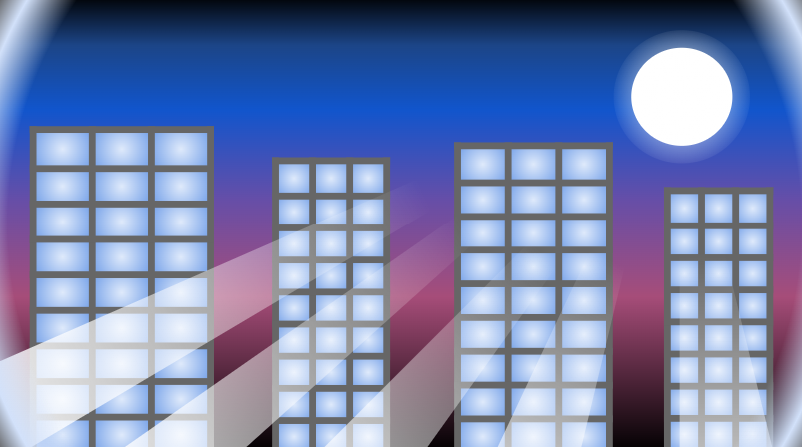
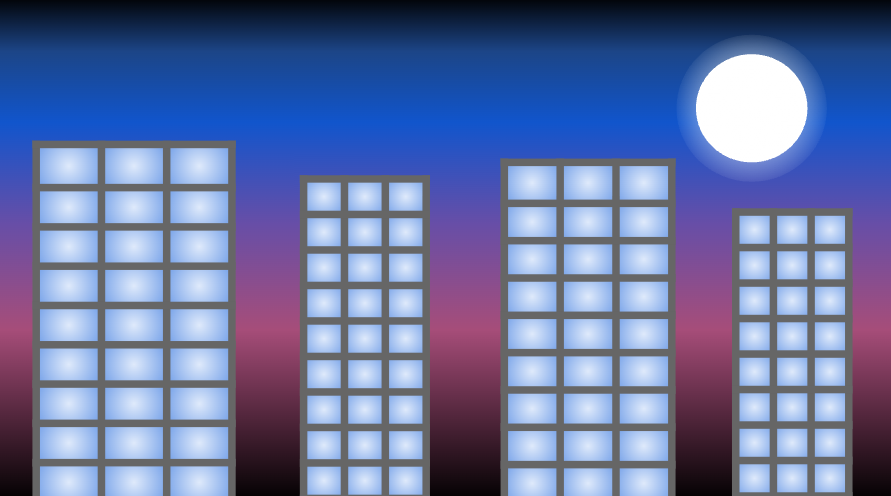
updated background

diff --git a/Team project/Project New/level.c b/Team project/Project New/level.c
@@ -70,8 +70,8 @@ win_condition level2_win = { 1528.0f, 150.0f, 50.0f, 146.0f, NO_ROTATION, CORNER
 // LEVEL 2: Entering the building
 float second_level[5][PARAMETERS] = {
 	{ 0.0f, 250.0f, 630.0f, RECT_HORIZ_H, NO_ROTATION, CORNER_RADIUS },
-	{ 570.0f, 530.0f, 240.0f, RECT_HORIZ_H, NO_ROTATION, CORNER_RADIUS },
-	{ 940.0f, 460.0f, 240.0f, RECT_HORIZ_H, NO_ROTATION, CORNER_RADIUS },
+	{ 600.0f, 10.0f, 50.0f, 600.0f, NO_ROTATION, CORNER_RADIUS },
+	{ 500.0f, 460.0f, 240.0f, RECT_HORIZ_H, NO_ROTATION, CORNER_RADIUS },
 	{ 1240.0f, 350.0f, 240.0f, RECT_HORIZ_H, NO_ROTATION, CORNER_RADIUS },
 	{ 1500.0f, 260.0f, 220.0f, RECT_HORIZ_H, NO_ROTATION, CORNER_RADIUS }
 };
@@ -189,11 +189,14 @@ void level_1st(void) {
 	NPC_DrawProjectiles();
 	
 	//Check For Collision then end game if hit
-	if (NPC_CheckPlayerCollision())
+	if (NPC_CheckPlayerCollision()==1)
 	{
 		NPC_UpdateProjectiles(0);
 		CP_Engine_SetNextGameState(Screen_Init,Lose_Screen,Screen_Exit);
 		return;
+	}
+	else if (NPC_CheckPlayerCollision() == 2) {
+		NPC_UpdateProjectiles(0);
 	}
 
 	Objects_Draw();
@@ -232,11 +235,14 @@ void level_2nd(void) {
 	NPC_UpdateProjectiles(1);
 	NPC_DrawProjectiles();
 	//Check For Collision then end game if hit
-	if (NPC_CheckPlayerCollision())
+	if (NPC_CheckPlayerCollision()==1)
 	{
 		NPC_UpdateProjectiles(0);
 		CP_Engine_SetNextGameState(Screen_Init, Lose_Screen, Screen_Exit);
 		return;
+	}
+	else if (NPC_CheckPlayerCollision() == 2) {
+		NPC_UpdateProjectiles(0);
 	}
 
 	Objects_Draw();
@@ -274,11 +280,14 @@ void level_3rd(void) {
 	NPC_UpdateProjectiles(1);
 	NPC_DrawProjectiles();
 	//Check For Collision then end game if hit
-	if (NPC_CheckPlayerCollision())
+	if (NPC_CheckPlayerCollision()==1)
 	{
 		NPC_UpdateProjectiles(0);
 		CP_Engine_SetNextGameState(Screen_Init, Lose_Screen, Screen_Exit);
 		return;
+	}
+	else if (NPC_CheckPlayerCollision() == 2) {
+		NPC_UpdateProjectiles(0);
 	}
 
 	Objects_Draw();
@@ -316,11 +325,14 @@ void level_4th(void) {
 	NPC_UpdateProjectiles(1);
 	NPC_DrawProjectiles();
 	//Check For Collision then end game if hit
-	if (NPC_CheckPlayerCollision())
+	if (NPC_CheckPlayerCollision()==1)
 	{
 		NPC_UpdateProjectiles(0);
 		CP_Engine_SetNextGameState(Screen_Init, Lose_Screen, Screen_Exit);
 		return;
+	}
+	else if (NPC_CheckPlayerCollision() == 2) {
+		NPC_UpdateProjectiles(0);
 	}
 
 	Objects_Draw();

diff --git a/Team project/Project New/game_mechanics.h b/Team project/Project New/game_mechanics.h
@@ -1,6 +1,6 @@
 #pragma once
 
-#define PLAYER_SIZE 100.f
+#define PLAYER_SIZE 50.f
 extern int isCarrying;
 extern int pickingUp;
 extern int dropping;

diff --git a/Team project/Project New/npc_mechanics.c b/Team project/Project New/npc_mechanics.c
@@ -162,6 +162,7 @@ int NPC_CheckPlayerCollision(void) {
 				return 1;
 			}
 		}
+		//add if hit object
 	}
 	return 0;
 }
